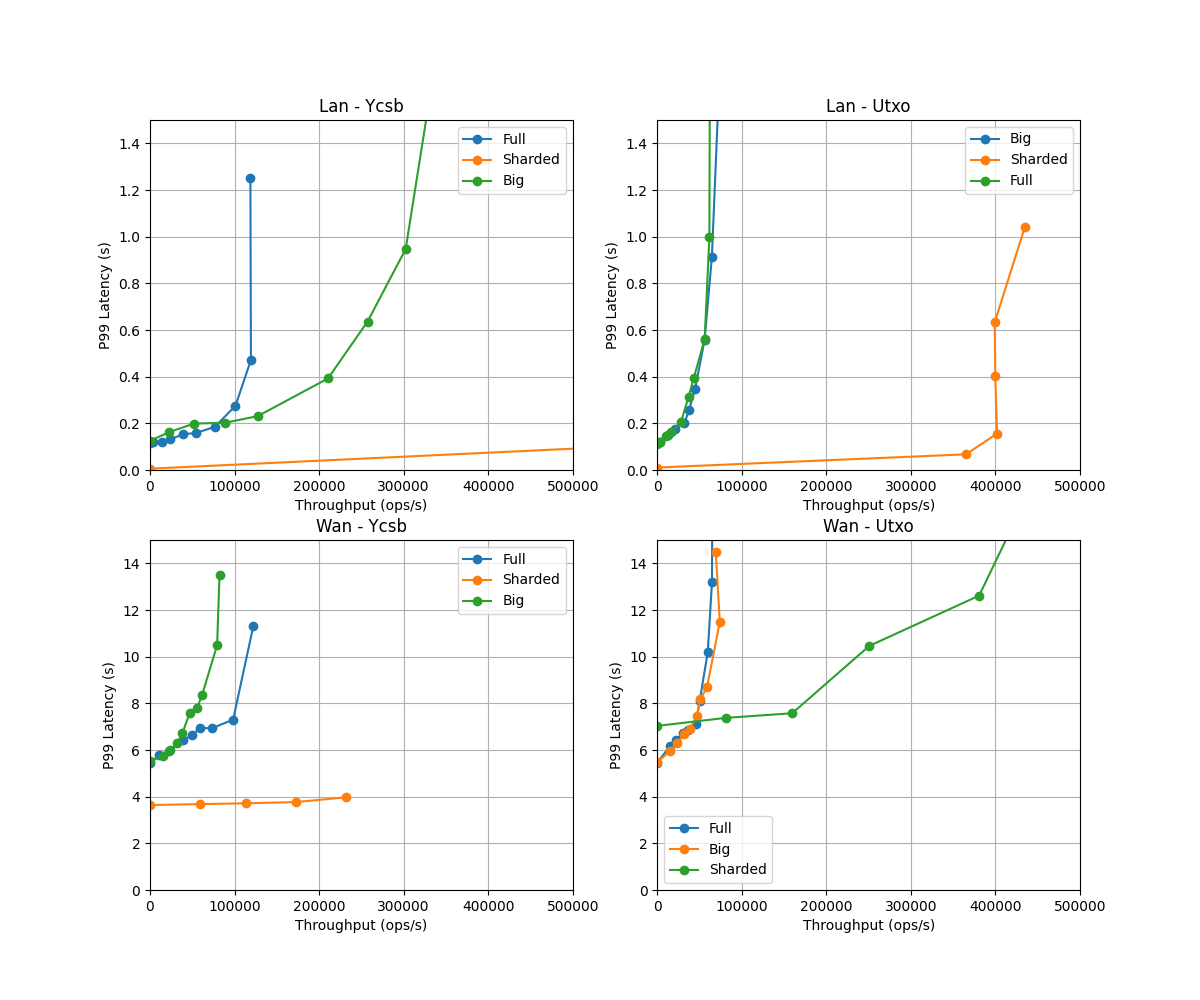
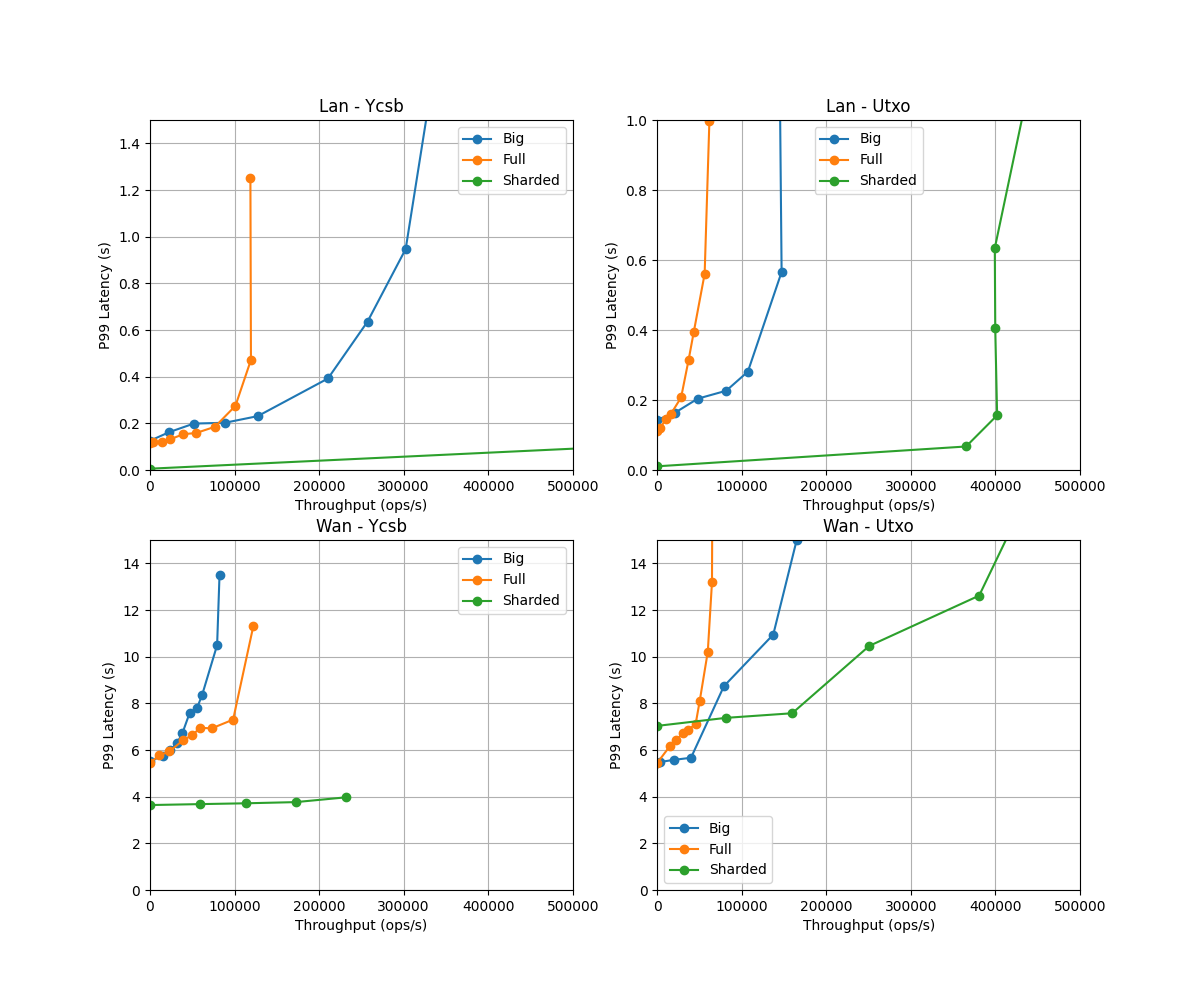
feat(data): big utxo

diff --git a/control/src/bin/tput-latency.rs b/control/src/bin/tput-latency.rs
@@ -109,23 +109,23 @@ async fn main() -> anyhow::Result<()> {
             }
         }
         (big_schema::App::Utxo, Storage::Full) => {
-            // for &num_concurrent in match NETWORK {
-            //     Network::Lan => &[0, 10, 50, 100, 200, 300, 500, 1000, 2000, 4000][..],
-            //     Network::Wan => &[
-            //         0, 4000, 6000, 8000, 10_000, 13_000, 16_000, 20_000, 30_000, 40_000,
-            //     ],
-            // } {
-            //     println!("running UTXO Full with num_concurrent = {}", num_concurrent);
-            //     metrics = run(&cluster, 33, 1, num_concurrent).await?;
-            //     writeln!(
-            //         &mut data,
-            //         "{t},{:?},{},{},\"concurrent = {}\"",
-            //         Setting::Full,
-            //         num_nodes(33),
-            //         s(metrics),
-            //         num_concurrent
-            //     )?;
-            // }
+            for &num_concurrent in match NETWORK {
+                Network::Lan => &[0, 10, 50, 100, 200, 300, 500, 1000, 2000, 4000][..],
+                Network::Wan => &[
+                    0, 4000, 6000, 8000, 10_000, 13_000, 16_000, 20_000, 30_000, 40_000,
+                ],
+            } {
+                println!("running UTXO Full with num_concurrent = {}", num_concurrent);
+                metrics = run(&cluster, 33, 1, num_concurrent).await?;
+                writeln!(
+                    &mut data,
+                    "{t},{:?},{},{},\"concurrent = {}\"",
+                    Setting::Full,
+                    num_nodes(33),
+                    s(metrics),
+                    num_concurrent
+                )?;
+            }
             for &num_concurrent in match NETWORK {
                 Network::Lan => &[0, 1000, 2000, 4000, 6000, 8000, 10_000, 15_000][..],
                 // Network::Wan => &[0, 100_000, 200_000, 300_000],
@@ -148,10 +148,8 @@ async fn main() -> anyhow::Result<()> {
         }
         (big_schema::App::Utxo, Storage::Big) => {
             for &num_concurrent in match NETWORK {
-                Network::Lan => &[0, 10, 50, 100, 200, 300, 500, 1000, 2000, 4000][..],
-                Network::Wan => &[
-                    0, 4000, 6000, 8000, 10_000, 13_000, 16_000, 20_000, 30_000, 40_000,
-                ],
+                Network::Lan => &[0, 100, 300, 600, 1000, 3000, 6000, 10_000, 20_000, 30_000][..],
+                Network::Wan => &[0, 1_000, 5_000, 10_000, 30_000, 60_000, 100_000, 130_000],
             } {
                 println!("running UTXO Big with num_concurrent = {}", num_concurrent);
                 metrics = run(&cluster, 33, 1, num_concurrent).await?;

diff --git a/data/tput-latency.py b/data/tput-latency.py
@@ -5,7 +5,7 @@ import matplotlib.pyplot as plt
 def plot(ax, df, network, app, ylim=None):
     # print(df)
     plot_df = df.filter((pl.col("network") == network) & (pl.col("app") == app))
-    for setting in plot_df["setting"].unique():
+    for setting in sorted(plot_df["setting"].unique()):
         setting_df = plot_df.filter((pl.col("setting") == setting))
         ax.plot(
             setting_df["tput"],
@@ -27,7 +27,7 @@ fig, axs = plt.subplots(2, 2, figsize=(12, 10))
 df = pl.read_csv("data/tput-latency.csv")  # .filter(pl.col("_ignore") != True)
 print(df)
 plot(axs[0][0], df, "Lan", "Ycsb", ylim=1.5)
-plot(axs[0][1], df, "Lan", "Utxo", ylim=1.5)
+plot(axs[0][1], df, "Lan", "Utxo", ylim=1.)
 plot(axs[1][0], df, "Wan", "Ycsb", ylim=15)
 plot(axs[1][1], df, "Wan", "Utxo", ylim=15)
 fig.savefig("data/tput-latency.png")
